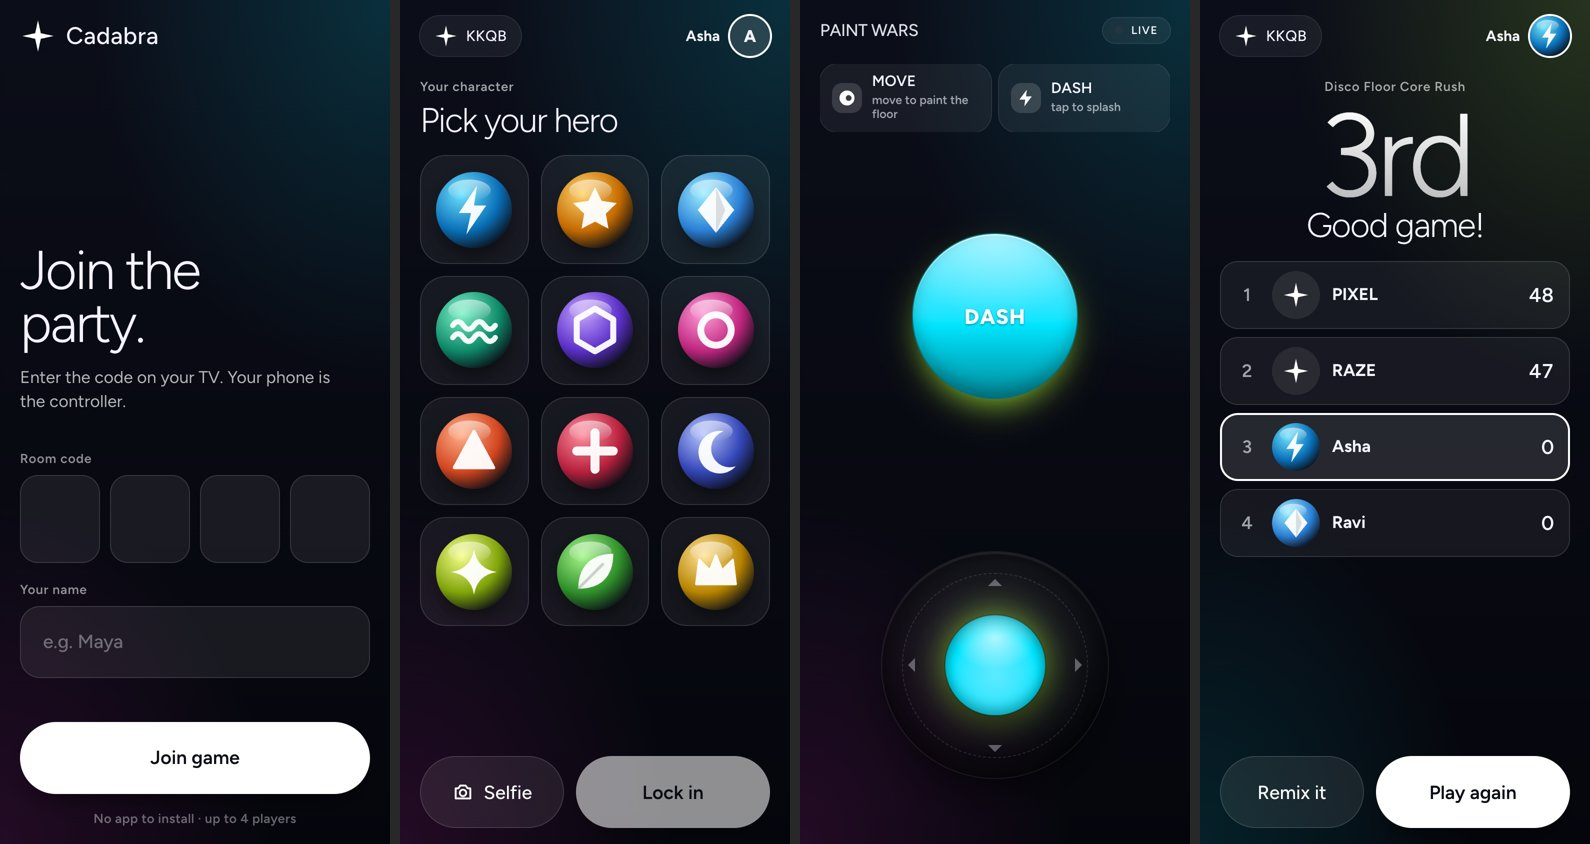
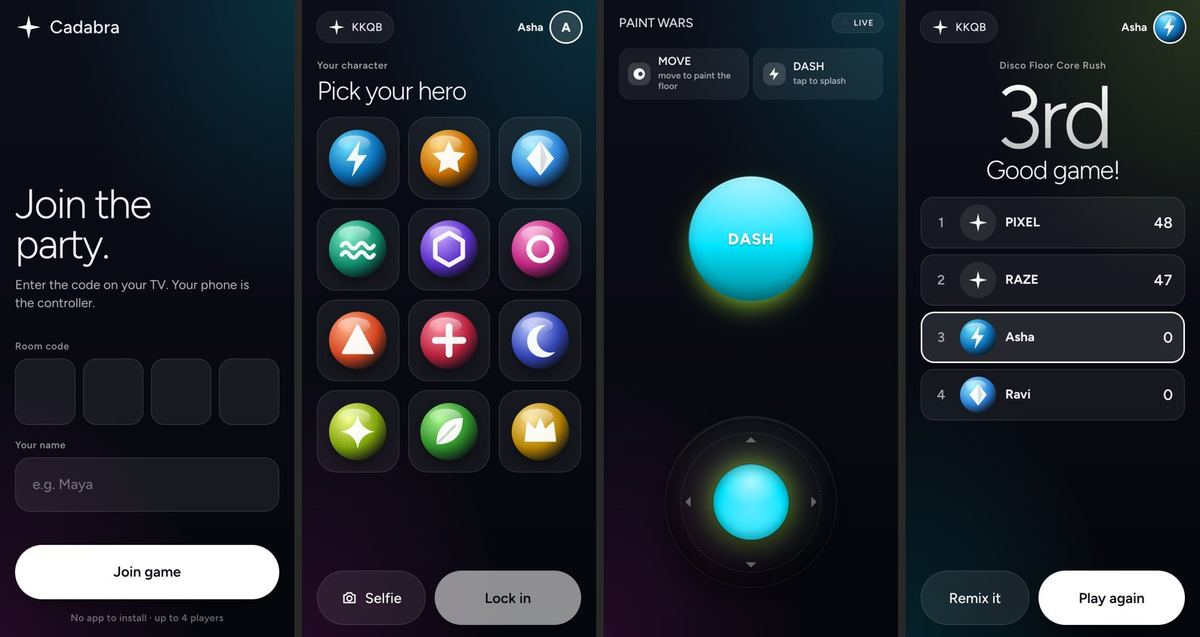
site: lighter fonts and images, visual-first mobile hero, 44px tap targets

diff --git a/site/.vitepress/theme/custom.css b/site/.vitepress/theme/custom.css
@@ -300,3 +300,16 @@ body { background: var(--cp-ink); }
 .vp-doc .header-anchor { position: relative; }
 .vp-doc .header-anchor[data-copied]::after { content: 'Link copied'; position: absolute; left: 0; bottom: 100%; transform: translateY(-4px); white-space: nowrap; z-index: 2;
   font: 500 .72rem var(--vp-font-family-base); color: var(--cp-ink); background: var(--cp-cyan); padding: 2px 8px; border-radius: 6px; }
+/* mobile tap targets */
+@media (max-width: 640px) {
+  .cp-diagram-bar > button { min-height: 44px; padding: 10px 14px; }
+  .cp-cta { min-height: 44px; display: inline-flex; align-items: center; }
+  .cp-hero { padding: 32px 0 28px; }
+  .cp-lede { font-size: 1.05rem; margin: 18px 0 22px; }
+}
+@media (max-width: 640px) {
+  .cp-hero-grid { gap: 8px; }
+  .cp-hero-art { order: -1; margin: -8px -6px 0; }
+  .cp-kicker { display: none; }
+  .cp-title { font-size: clamp(2.3rem, 11vw, 3rem); }
+}

diff --git a/site/.vitepress/theme/HomeCadabra.vue b/site/.vitepress/theme/HomeCadabra.vue
@@ -19,7 +19,7 @@ import { withBase } from 'vitepress';
         <a class="cp-cta ghost" href="https://github.com/MaanavKrishna/cadabra">See Cadabra on GitHub</a>
       </div>
       <figure class="cp-shot cp-reveal">
-        <img :src="withBase('/phone-join-play.jpg')" width="1590" height="844" decoding="async"
+        <img :src="withBase('/phone-join-play.jpg')" width="1200" height="637" loading="lazy" decoding="async"
           alt="A phone that has joined a Cadabra room, showing couchpad's joystick and buttons, next to the TV game it controls." />
         <figcaption>A phone joined to Cadabra, playing as the controller.</figcaption>
       </figure>

diff --git a/site/.vitepress/theme/HomeSession.vue b/site/.vitepress/theme/HomeSession.vue
@@ -57,6 +57,7 @@ function go(id: Id) {
 .ss-step.on { opacity: 1; border-color: var(--cp-cyan); }
 .ss-step:first-child { min-height: 40vh; }
 .ss-title { all: unset; cursor: pointer; display: flex; gap: 12px; align-items: baseline; font: 800 1.45rem/1.2 var(--cp-display); color: var(--cp-text); letter-spacing: -.01em; }
+.ss-title { min-height: 44px; }
 .ss-title:focus-visible { outline: 2px solid var(--cp-amber); outline-offset: 4px; border-radius: 4px; }
 .ss-num { font: 600 .85rem var(--vp-font-family-mono); color: var(--cp-cyan); }
 .ss-step p { color: var(--cp-muted); line-height: 1.65; margin: 12px 0 14px; max-width: 46ch; }
